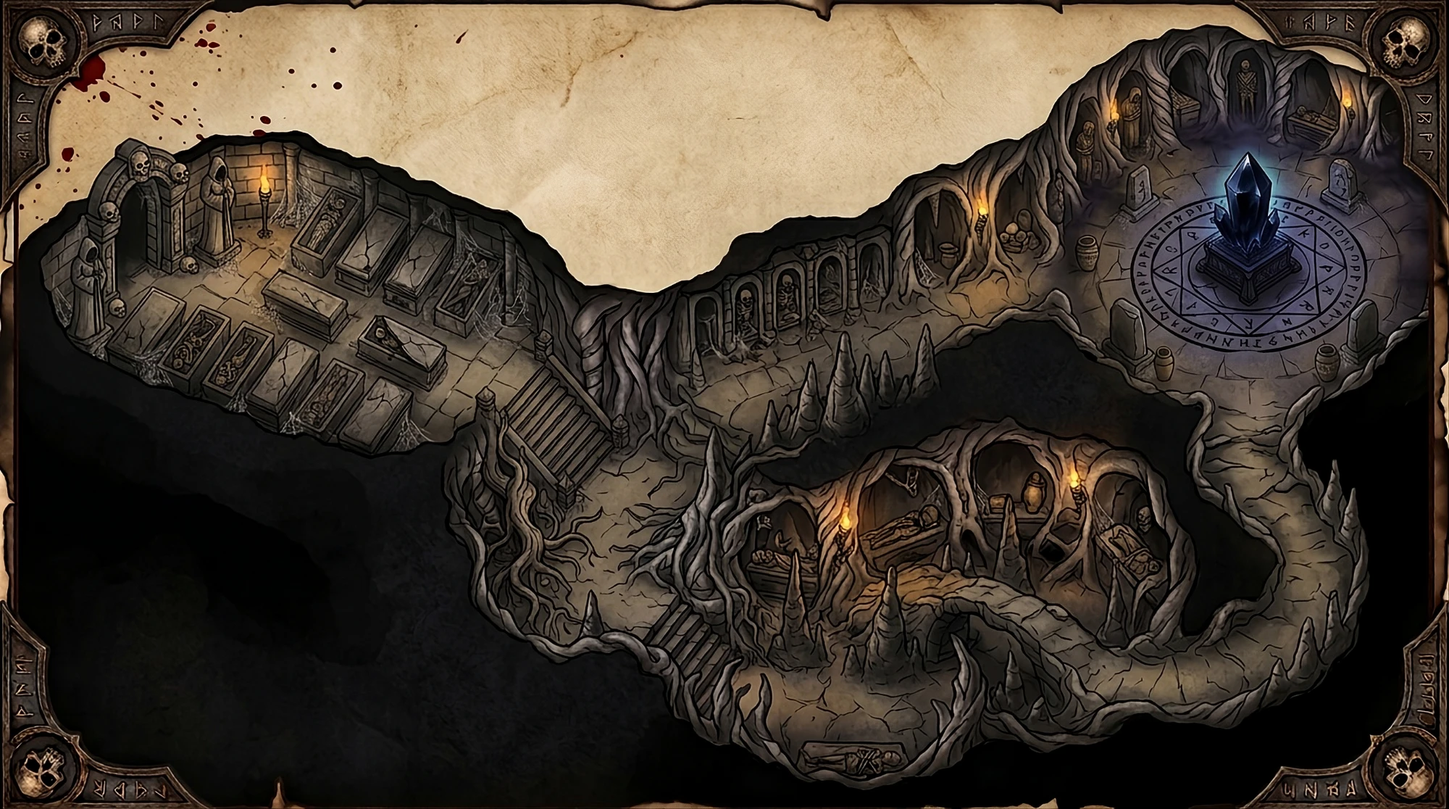
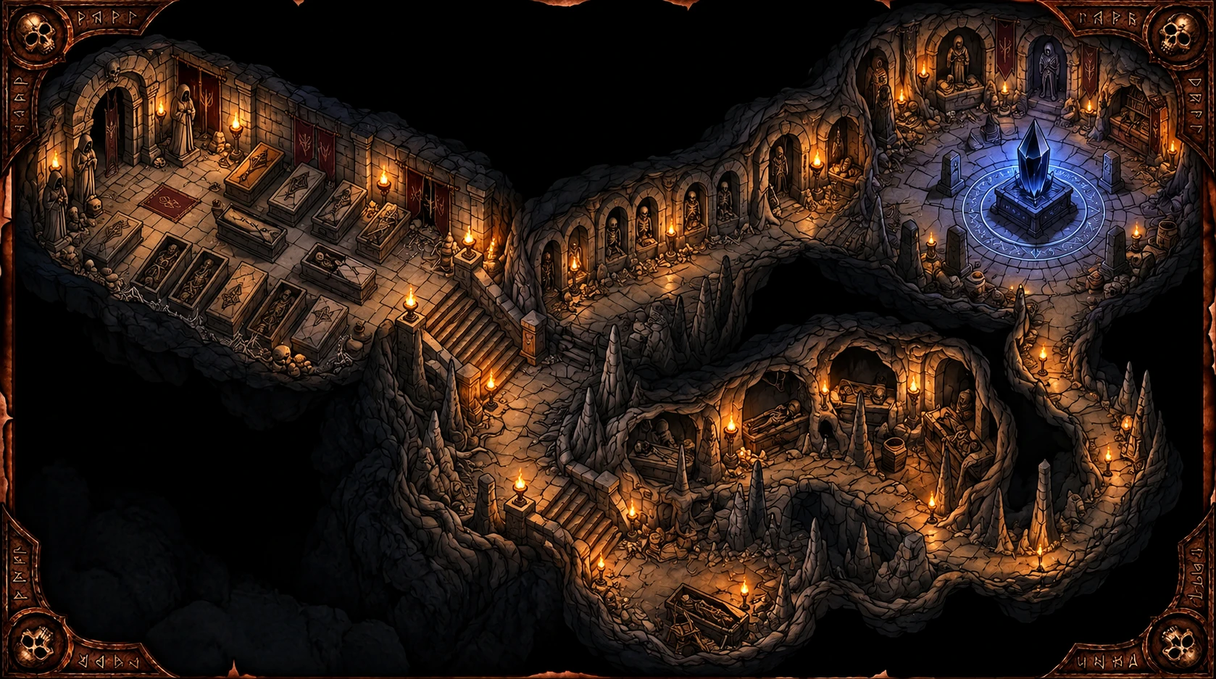
Updating board art and node layout, adding safe village nodes
- New higher quality art for the surface and catacombs maps (webp)
- Nodes repositioned along the paths of the new art
- Start inside the village with a loop around the fence; north route follows
  the west lake shore
- New safe node type (no event) for the village, so the first battle
  happens outside it

diff --git a/src/app/static/boards/whispering-forest.board.ts b/src/app/static/boards/whispering-forest.board.ts
@@ -7,102 +7,117 @@ import { BoardNode, StoryBoard } from '../board';
  * undead = cripta e corredor dos nichos; caves = caverna inferior.
  */
 const nodes: BoardNode[] = [
-        { id: 'S01', map: 'sup', x: 330, y: 880, type: 'start', monsterType: '', level: 0, next: ['S01~1'] },
-        { id: 'S02', map: 'sup', x: 400, y: 830, type: 'battle', monsterType: 'woods', level: 1, next: ['S03'] },
-        { id: 'S03', map: 'sup', x: 450, y: 790, type: 'fork', monsterType: '', level: 0, next: ['SS1','N01'], labels: {"SS1":"Margem sul — curta","N01":"Contornar o lago pelo norte — longa, com baú"} },
-        { id: 'SS1', map: 'sup', x: 540, y: 775, type: 'battle', monsterType: 'woods', level: 2, next: ['SS1~1'] },
-        { id: 'SS2', map: 'sup', x: 650, y: 740, type: 'battle', monsterType: 'woods', level: 2, next: ['SS2~1'] },
-        { id: 'SS3', map: 'sup', x: 760, y: 700, type: 'battle', monsterType: 'woods', level: 2, next: ['SS3~1'] },
-        { id: 'SS4', map: 'sup', x: 850, y: 650, type: 'battle', monsterType: 'woods', level: 3, next: ['SS4~1'] },
-        { id: 'N01', map: 'sup', x: 400, y: 720, type: 'battle', monsterType: 'woods', level: 2, next: ['N01~1'] },
-        { id: 'N02', map: 'sup', x: 350, y: 640, type: 'battle', monsterType: 'woods', level: 2, next: ['N03'] },
-        { id: 'N03', map: 'sup', x: 330, y: 560, type: 'battle', monsterType: 'woods', level: 2, next: ['N03~1'] },
-        { id: 'N04', map: 'sup', x: 390, y: 490, type: 'battle', monsterType: 'woods', level: 2, next: ['N04~1'] },
-        { id: 'N05', map: 'sup', x: 470, y: 430, type: 'rest', monsterType: '', level: 0, next: ['N05~1'] },
-        { id: 'N06', map: 'sup', x: 570, y: 400, type: 'battle', monsterType: 'woods', level: 3, next: ['N06~1'] },
-        { id: 'N07', map: 'sup', x: 680, y: 390, type: 'battle', monsterType: 'woods', level: 3, next: ['N07~1'] },
-        { id: 'N08', map: 'sup', x: 780, y: 410, type: 'battle', monsterType: 'woods', level: 4, next: ['N08~1'] },
-        { id: 'N09', map: 'sup', x: 860, y: 465, type: 'battle', monsterType: 'woods', level: 4, next: ['N10'] },
-        { id: 'N10', map: 'sup', x: 900, y: 530, type: 'reward', monsterType: '', level: 0, next: ['M01'] },
-        { id: 'M01', map: 'sup', x: 935, y: 605, type: 'rest', monsterType: '', level: 0, next: ['M01~1'] },
-        { id: 'E01', map: 'sup', x: 965, y: 700, type: 'battle', monsterType: 'ruins', level: 3, next: ['E01~1'] },
-        { id: 'E02', map: 'sup', x: 1030, y: 765, type: 'battle', monsterType: 'ruins', level: 4, next: ['E02~1'] },
-        { id: 'E03', map: 'sup', x: 1125, y: 815, type: 'battle', monsterType: 'ruins', level: 4, next: ['E03~1'] },
-        { id: 'E04', map: 'sup', x: 1235, y: 850, type: 'battle', monsterType: 'ruins', level: 5, next: ['E04~1'] },
-        { id: 'E05', map: 'sup', x: 1325, y: 865, type: 'battle', monsterType: 'ruins', level: 5, next: ['E06'] },
-        { id: 'E06', map: 'sup', x: 1373, y: 863, type: 'fork', monsterType: '', level: 0, next: ['B01','T01'], labels: {"B01":"Subir pela brecha sul — direto","T01":"Descer a trilha sul até o baú — ida e volta"} },
-        { id: 'B01', map: 'sup', x: 1365, y: 805, type: 'battle', monsterType: 'ruins', level: 5, next: ['B02'] },
-        { id: 'B02', map: 'sup', x: 1348, y: 745, type: 'battle', monsterType: 'ruins', level: 5, next: ['B03'] },
-        { id: 'B03', map: 'sup', x: 1340, y: 690, type: 'battle', monsterType: 'ruins', level: 6, next: ['B04'] },
-        { id: 'B04', map: 'sup', x: 1332, y: 640, type: 'battle', monsterType: 'ruins', level: 6, next: ['G01'] },
-        { id: 'T01', map: 'sup', x: 1379, y: 922, type: 'battle', monsterType: 'woods', level: 5, next: ['T02'] },
-        { id: 'T02', map: 'sup', x: 1382, y: 970, type: 'battle', monsterType: 'woods', level: 5, next: ['T03'] },
-        { id: 'T03', map: 'sup', x: 1379, y: 1020, type: 'battle', monsterType: 'woods', level: 5, next: ['T04'] },
-        { id: 'T04', map: 'sup', x: 1387, y: 1073, type: 'reward', monsterType: '', level: 0, next: ['T03r'] },
-        { id: 'T03r', map: 'sup', x: 1418, y: 1020, type: 'battle', monsterType: 'woods', level: 5, next: ['T02r'] },
-        { id: 'T02r', map: 'sup', x: 1421, y: 961, type: 'rest', monsterType: '', level: 0, next: ['T01r'] },
-        { id: 'T01r', map: 'sup', x: 1424, y: 916, type: 'battle', monsterType: 'woods', level: 6, next: ['T01r~1'] },
-        { id: 'G01', map: 'sup', x: 1310, y: 600, type: 'gate', monsterType: '', level: 0, next: ['K01'] },
-        { id: 'S01~1', map: 'sup', x: 365, y: 855, type: 'battle', monsterType: 'woods', level: 1, next: ['S02'] },
-        { id: 'SS1~1', map: 'sup', x: 595, y: 758, type: 'battle', monsterType: 'woods', level: 2, next: ['SS2'] },
-        { id: 'SS2~1', map: 'sup', x: 705, y: 720, type: 'battle', monsterType: 'woods', level: 2, next: ['SS3'] },
-        { id: 'SS3~1', map: 'sup', x: 805, y: 675, type: 'battle', monsterType: 'woods', level: 3, next: ['SS4'] },
-        { id: 'SS4~1', map: 'sup', x: 893, y: 628, type: 'battle', monsterType: 'woods', level: 3, next: ['M01'] },
-        { id: 'N01~1', map: 'sup', x: 375, y: 680, type: 'battle', monsterType: 'woods', level: 2, next: ['N02'] },
-        { id: 'N03~1', map: 'sup', x: 360, y: 525, type: 'battle', monsterType: 'woods', level: 2, next: ['N04'] },
-        { id: 'N04~1', map: 'sup', x: 430, y: 460, type: 'battle', monsterType: 'woods', level: 3, next: ['N05'] },
-        { id: 'N05~1', map: 'sup', x: 520, y: 415, type: 'battle', monsterType: 'woods', level: 3, next: ['N06'] },
-        { id: 'N06~1', map: 'sup', x: 625, y: 395, type: 'battle', monsterType: 'woods', level: 3, next: ['N07'] },
-        { id: 'N07~1', map: 'sup', x: 730, y: 400, type: 'battle', monsterType: 'woods', level: 3, next: ['N08'] },
-        { id: 'N08~1', map: 'sup', x: 820, y: 438, type: 'battle', monsterType: 'woods', level: 4, next: ['N09'] },
-        { id: 'M01~1', map: 'sup', x: 950, y: 653, type: 'battle', monsterType: 'ruins', level: 3, next: ['E01'] },
-        { id: 'E01~1', map: 'sup', x: 998, y: 733, type: 'battle', monsterType: 'ruins', level: 4, next: ['E02'] },
-        { id: 'E02~1', map: 'sup', x: 1078, y: 790, type: 'battle', monsterType: 'ruins', level: 4, next: ['E03'] },
-        { id: 'E03~1', map: 'sup', x: 1180, y: 833, type: 'battle', monsterType: 'ruins', level: 4, next: ['E04'] },
-        { id: 'E04~1', map: 'sup', x: 1280, y: 858, type: 'battle', monsterType: 'ruins', level: 5, next: ['E05'] },
-        { id: 'T01r~1', map: 'sup', x: 1395, y: 861, type: 'battle', monsterType: 'woods', level: 6, next: ['B01'] },
-        { id: 'K01', map: 'tomb', x: 210, y: 400, type: 'start', monsterType: '', level: 0, next: ['K02'] },
-        { id: 'K02', map: 'tomb', x: 330, y: 400, type: 'battle', monsterType: 'undead', level: 6, next: ['K02~1'] },
-        { id: 'K03', map: 'tomb', x: 450, y: 460, type: 'battle', monsterType: 'undead', level: 7, next: ['K04'] },
-        { id: 'K04', map: 'tomb', x: 560, y: 520, type: 'battle', monsterType: 'undead', level: 7, next: ['K04~1'] },
-        { id: 'K05', map: 'tomb', x: 690, y: 570, type: 'battle', monsterType: 'undead', level: 7, next: ['K05~1'] },
-        { id: 'KF', map: 'tomb', x: 840, y: 650, type: 'fork', monsterType: '', level: 0, next: ['U01','L01'], labels: {"U01":"Corredor dos nichos — curto","L01":"Caverna inferior — longa, com baú"} },
-        { id: 'U01', map: 'tomb', x: 940, y: 540, type: 'battle', monsterType: 'undead', level: 8, next: ['U01~1'] },
-        { id: 'U02', map: 'tomb', x: 1070, y: 480, type: 'battle', monsterType: 'undead', level: 8, next: ['U02~1'] },
-        { id: 'U03', map: 'tomb', x: 1200, y: 430, type: 'battle', monsterType: 'undead', level: 8, next: ['U03~1'] },
-        { id: 'U04', map: 'tomb', x: 1330, y: 340, type: 'battle', monsterType: 'undead', level: 9, next: ['U04~1'] },
-        { id: 'U05', map: 'tomb', x: 1450, y: 270, type: 'battle', monsterType: 'undead', level: 9, next: ['U05~1'] },
-        { id: 'L01', map: 'tomb', x: 890, y: 760, type: 'battle', monsterType: 'caves', level: 7, next: ['L01~1'] },
-        { id: 'L02', map: 'tomb', x: 960, y: 880, type: 'battle', monsterType: 'caves', level: 7, next: ['L02~1'] },
-        { id: 'L03', map: 'tomb', x: 1080, y: 970, type: 'battle', monsterType: 'caves', level: 7, next: ['L03~1'] },
-        { id: 'L04', map: 'tomb', x: 1250, y: 1000, type: 'battle', monsterType: 'caves', level: 8, next: ['L04~1'] },
-        { id: 'L05', map: 'tomb', x: 1450, y: 985, type: 'rest', monsterType: '', level: 0, next: ['L05~1'] },
-        { id: 'L06', map: 'tomb', x: 1620, y: 940, type: 'battle', monsterType: 'caves', level: 8, next: ['L06~1'] },
-        { id: 'L07', map: 'tomb', x: 1780, y: 860, type: 'reward', monsterType: '', level: 0, next: ['L07~1'] },
-        { id: 'L08', map: 'tomb', x: 1890, y: 740, type: 'battle', monsterType: 'caves', level: 9, next: ['L08~1'] },
-        { id: 'L09', map: 'tomb', x: 1790, y: 640, type: 'battle', monsterType: 'caves', level: 9, next: ['L09~1'] },
-        { id: 'L10', map: 'tomb', x: 1690, y: 545, type: 'battle', monsterType: 'caves', level: 10, next: ['M02'] },
-        { id: 'M02', map: 'tomb', x: 1620, y: 440, type: 'rest', monsterType: '', level: 0, next: ['M02~1'] },
-        { id: 'BOSS', map: 'tomb', x: 1735, y: 320, type: 'boss', monsterType: 'undead', level: 10, next: [] },
-        { id: 'K02~1', map: 'tomb', x: 390, y: 430, type: 'battle', monsterType: 'undead', level: 6, next: ['K03'] },
-        { id: 'K04~1', map: 'tomb', x: 625, y: 545, type: 'battle', monsterType: 'undead', level: 7, next: ['K05'] },
-        { id: 'K05~1', map: 'tomb', x: 765, y: 610, type: 'battle', monsterType: 'undead', level: 7, next: ['KF'] },
-        { id: 'U01~1', map: 'tomb', x: 1005, y: 510, type: 'battle', monsterType: 'undead', level: 8, next: ['U02'] },
-        { id: 'U02~1', map: 'tomb', x: 1135, y: 455, type: 'battle', monsterType: 'undead', level: 8, next: ['U03'] },
-        { id: 'U03~1', map: 'tomb', x: 1265, y: 385, type: 'battle', monsterType: 'undead', level: 9, next: ['U04'] },
-        { id: 'U04~1', map: 'tomb', x: 1390, y: 305, type: 'battle', monsterType: 'undead', level: 9, next: ['U05'] },
-        { id: 'U05~1', map: 'tomb', x: 1507, y: 327, type: 'battle', monsterType: 'undead', level: 9, next: ['U05~2'] },
-        { id: 'U05~2', map: 'tomb', x: 1563, y: 383, type: 'battle', monsterType: 'undead', level: 9, next: ['M02'] },
-        { id: 'L01~1', map: 'tomb', x: 925, y: 820, type: 'battle', monsterType: 'caves', level: 7, next: ['L02'] },
-        { id: 'L02~1', map: 'tomb', x: 1020, y: 925, type: 'battle', monsterType: 'caves', level: 7, next: ['L03'] },
-        { id: 'L03~1', map: 'tomb', x: 1165, y: 985, type: 'battle', monsterType: 'caves', level: 8, next: ['L04'] },
-        { id: 'L04~1', map: 'tomb', x: 1350, y: 993, type: 'battle', monsterType: 'caves', level: 8, next: ['L05'] },
-        { id: 'L05~1', map: 'tomb', x: 1535, y: 963, type: 'battle', monsterType: 'caves', level: 8, next: ['L06'] },
-        { id: 'L06~1', map: 'tomb', x: 1700, y: 900, type: 'battle', monsterType: 'caves', level: 8, next: ['L07'] },
-        { id: 'L07~1', map: 'tomb', x: 1835, y: 800, type: 'battle', monsterType: 'caves', level: 9, next: ['L08'] },
-        { id: 'L08~1', map: 'tomb', x: 1840, y: 690, type: 'battle', monsterType: 'caves', level: 9, next: ['L09'] },
-        { id: 'L09~1', map: 'tomb', x: 1740, y: 593, type: 'battle', monsterType: 'caves', level: 9, next: ['L10'] },
-        { id: 'M02~1', map: 'tomb', x: 1678, y: 380, type: 'battle', monsterType: 'undead', level: 10, next: ['BOSS'] },
+        { id: 'S01', map: 'sup', x: 281, y: 809, type: 'start', monsterType: '', level: 0, next: ['S01~1'] },
+        { id: 'A01', map: 'sup', x: 222, y: 764, type: 'safe', monsterType: '', level: 0, next: ['A02'] },
+        { id: 'A02', map: 'sup', x: 176, y: 762, type: 'safe', monsterType: '', level: 0, next: ['A03'] },
+        { id: 'A03', map: 'sup', x: 133, y: 776, type: 'safe', monsterType: '', level: 0, next: ['A04'] },
+        { id: 'A04', map: 'sup', x: 105, y: 807, type: 'safe', monsterType: '', level: 0, next: ['A05'] },
+        { id: 'A05', map: 'sup', x: 100, y: 847, type: 'safe', monsterType: '', level: 0, next: ['A06'] },
+        { id: 'A06', map: 'sup', x: 119, y: 883, type: 'safe', monsterType: '', level: 0, next: ['A07'] },
+        { id: 'A07', map: 'sup', x: 172, y: 907, type: 'safe', monsterType: '', level: 0, next: ['A08'] },
+        { id: 'A08', map: 'sup', x: 231, y: 922, type: 'battle', monsterType: 'woods', level: 2, next: ['A09'] },
+        { id: 'A09', map: 'sup', x: 291, y: 933, type: 'battle', monsterType: 'woods', level: 2, next: ['A10'] },
+        { id: 'A10', map: 'sup', x: 350, y: 933, type: 'battle', monsterType: 'woods', level: 3, next: ['A11'] },
+        { id: 'A11', map: 'sup', x: 410, y: 929, type: 'battle', monsterType: 'woods', level: 3, next: ['A12'] },
+        { id: 'A12', map: 'sup', x: 467, y: 912, type: 'battle', monsterType: 'woods', level: 3, next: ['A13'] },
+        { id: 'A13', map: 'sup', x: 510, y: 881, type: 'battle', monsterType: 'woods', level: 3, next: ['S03'] },
+        { id: 'S03', map: 'sup', x: 532, y: 828, type: 'fork', monsterType: '', level: 0, next: ['SS1','N01'], labels: {"SS1":"Margem sul — curta","N01":"Contornar o lago pelo norte — longa, com baú"} },
+        { id: 'SS1', map: 'sup', x: 596, y: 790, type: 'battle', monsterType: 'woods', level: 3, next: ['SS1~1'] },
+        { id: 'SS2', map: 'sup', x: 667, y: 757, type: 'battle', monsterType: 'woods', level: 4, next: ['SS2~1'] },
+        { id: 'SS3', map: 'sup', x: 739, y: 729, type: 'battle', monsterType: 'woods', level: 4, next: ['SS3~1'] },
+        { id: 'SS4', map: 'sup', x: 810, y: 700, type: 'battle', monsterType: 'woods', level: 4, next: ['SS4~1'] },
+        { id: 'SS5', map: 'sup', x: 876, y: 666, type: 'battle', monsterType: 'woods', level: 4, next: ['SS5~1'] },
+        { id: 'N01', map: 'sup', x: 499, y: 772, type: 'battle', monsterType: 'woods', level: 3, next: ['N02'] },
+        { id: 'N02', map: 'sup', x: 470, y: 739, type: 'battle', monsterType: 'woods', level: 3, next: ['N03'] },
+        { id: 'N03', map: 'sup', x: 422, y: 691, type: 'battle', monsterType: 'woods', level: 3, next: ['N04'] },
+        { id: 'N04', map: 'sup', x: 365, y: 653, type: 'battle', monsterType: 'woods', level: 3, next: ['N05'] },
+        { id: 'N05', map: 'sup', x: 340, y: 613, type: 'rest', monsterType: '', level: 0, next: ['N06'] },
+        { id: 'N06', map: 'sup', x: 355, y: 565, type: 'battle', monsterType: 'woods', level: 4, next: ['N07'] },
+        { id: 'N07', map: 'sup', x: 410, y: 525, type: 'battle', monsterType: 'woods', level: 4, next: ['N08'] },
+        { id: 'N08', map: 'sup', x: 464, y: 483, type: 'battle', monsterType: 'woods', level: 4, next: ['N09'] },
+        { id: 'N09', map: 'sup', x: 517, y: 456, type: 'battle', monsterType: 'woods', level: 4, next: ['N10'] },
+        { id: 'N10', map: 'sup', x: 565, y: 439, type: 'battle', monsterType: 'woods', level: 4, next: ['N11'] },
+        { id: 'N11', map: 'sup', x: 625, y: 439, type: 'battle', monsterType: 'woods', level: 4, next: ['N12'] },
+        { id: 'N12', map: 'sup', x: 685, y: 441, type: 'battle', monsterType: 'woods', level: 4, next: ['N13'] },
+        { id: 'N13', map: 'sup', x: 753, y: 443, type: 'battle', monsterType: 'woods', level: 5, next: ['N14'] },
+        { id: 'N14', map: 'sup', x: 813, y: 464, type: 'battle', monsterType: 'woods', level: 5, next: ['N15'] },
+        { id: 'N15', map: 'sup', x: 865, y: 496, type: 'battle', monsterType: 'woods', level: 5, next: ['N16'] },
+        { id: 'N16', map: 'sup', x: 906, y: 543, type: 'battle', monsterType: 'woods', level: 5, next: ['N17'] },
+        { id: 'N17', map: 'sup', x: 920, y: 591, type: 'battle', monsterType: 'woods', level: 5, next: ['N18'] },
+        { id: 'N18', map: 'sup', x: 903, y: 634, type: 'reward', monsterType: '', level: 0, next: ['M01'] },
+        { id: 'M01', map: 'sup', x: 965, y: 657, type: 'rest', monsterType: '', level: 0, next: ['M01~1'] },
+        { id: 'E01', map: 'sup', x: 1035, y: 704, type: 'battle', monsterType: 'ruins', level: 5, next: ['E01~1'] },
+        { id: 'E02', map: 'sup', x: 1103, y: 747, type: 'battle', monsterType: 'ruins', level: 5, next: ['E02~1'] },
+        { id: 'E03', map: 'sup', x: 1174, y: 785, type: 'battle', monsterType: 'ruins', level: 6, next: ['E03~1'] },
+        { id: 'E04', map: 'sup', x: 1246, y: 809, type: 'battle', monsterType: 'ruins', level: 6, next: ['E05'] },
+        { id: 'E05', map: 'sup', x: 1311, y: 823, type: 'battle', monsterType: 'ruins', level: 6, next: ['E06'] },
+        { id: 'E06', map: 'sup', x: 1371, y: 831, type: 'fork', monsterType: '', level: 0, next: ['B01','T01'], labels: {"B01":"Subir pela escada do muro — direto","T01":"Descer a trilha sul até o baú — ida e volta"} },
+        { id: 'B01', map: 'sup', x: 1389, y: 779, type: 'battle', monsterType: 'ruins', level: 6, next: ['B02'] },
+        { id: 'B02', map: 'sup', x: 1385, y: 735, type: 'battle', monsterType: 'ruins', level: 7, next: ['B03'] },
+        { id: 'B03', map: 'sup', x: 1383, y: 693, type: 'battle', monsterType: 'ruins', level: 7, next: ['B04'] },
+        { id: 'B04', map: 'sup', x: 1389, y: 649, type: 'battle', monsterType: 'ruins', level: 7, next: ['G01'] },
+        { id: 'T01', map: 'sup', x: 1400, y: 878, type: 'battle', monsterType: 'woods', level: 6, next: ['T02'] },
+        { id: 'T02', map: 'sup', x: 1414, y: 938, type: 'battle', monsterType: 'woods', level: 6, next: ['T03'] },
+        { id: 'T03', map: 'sup', x: 1408, y: 1000, type: 'battle', monsterType: 'woods', level: 6, next: ['T03~1'] },
+        { id: 'T04', map: 'sup', x: 1373, y: 1073, type: 'reward', monsterType: '', level: 0, next: ['T04~1'] },
+        { id: 'T03r', map: 'sup', x: 1442, y: 1002, type: 'battle', monsterType: 'woods', level: 6, next: ['T02r'] },
+        { id: 'T02r', map: 'sup', x: 1449, y: 940, type: 'rest', monsterType: '', level: 0, next: ['T01r'] },
+        { id: 'T01r', map: 'sup', x: 1436, y: 881, type: 'battle', monsterType: 'woods', level: 7, next: ['T01r~1'] },
+        { id: 'G01', map: 'sup', x: 1389, y: 595, type: 'gate', monsterType: '', level: 0, next: ['K01'] },
+        { id: 'S01~1', map: 'sup', x: 252, y: 787, type: 'safe', monsterType: '', level: 0, next: ['A01'] },
+        { id: 'SS1~1', map: 'sup', x: 632, y: 774, type: 'battle', monsterType: 'woods', level: 3, next: ['SS2'] },
+        { id: 'SS2~1', map: 'sup', x: 703, y: 743, type: 'battle', monsterType: 'woods', level: 4, next: ['SS3'] },
+        { id: 'SS3~1', map: 'sup', x: 775, y: 715, type: 'battle', monsterType: 'woods', level: 4, next: ['SS4'] },
+        { id: 'SS4~1', map: 'sup', x: 843, y: 683, type: 'battle', monsterType: 'woods', level: 4, next: ['SS5'] },
+        { id: 'SS5~1', map: 'sup', x: 921, y: 662, type: 'battle', monsterType: 'woods', level: 5, next: ['M01'] },
+        { id: 'M01~1', map: 'sup', x: 1000, y: 681, type: 'battle', monsterType: 'ruins', level: 5, next: ['E01'] },
+        { id: 'E01~1', map: 'sup', x: 1069, y: 726, type: 'battle', monsterType: 'ruins', level: 5, next: ['E02'] },
+        { id: 'E02~1', map: 'sup', x: 1139, y: 766, type: 'battle', monsterType: 'ruins', level: 6, next: ['E03'] },
+        { id: 'E03~1', map: 'sup', x: 1210, y: 797, type: 'battle', monsterType: 'ruins', level: 6, next: ['E04'] },
+        { id: 'T03~1', map: 'sup', x: 1391, y: 1037, type: 'battle', monsterType: 'woods', level: 6, next: ['T04'] },
+        { id: 'T04~1', map: 'sup', x: 1408, y: 1038, type: 'battle', monsterType: 'woods', level: 6, next: ['T03r'] },
+        { id: 'T01r~1', map: 'sup', x: 1413, y: 830, type: 'battle', monsterType: 'woods', level: 7, next: ['B01'] },
+        { id: 'K01', map: 'tomb', x: 226, y: 303, type: 'start', monsterType: '', level: 0, next: ['K02'] },
+        { id: 'K02', map: 'tomb', x: 304, y: 347, type: 'battle', monsterType: 'undead', level: 7, next: ['K03'] },
+        { id: 'K03', map: 'tomb', x: 381, y: 411, type: 'battle', monsterType: 'undead', level: 7, next: ['K04'] },
+        { id: 'K04', map: 'tomb', x: 459, y: 458, type: 'battle', monsterType: 'undead', level: 8, next: ['K05'] },
+        { id: 'K05', map: 'tomb', x: 536, y: 497, type: 'battle', monsterType: 'undead', level: 8, next: ['K06'] },
+        { id: 'K06', map: 'tomb', x: 614, y: 524, type: 'battle', monsterType: 'undead', level: 8, next: ['K07'] },
+        { id: 'K07', map: 'tomb', x: 715, y: 524, type: 'battle', monsterType: 'undead', level: 8, next: ['K08'] },
+        { id: 'K08', map: 'tomb', x: 781, y: 569, type: 'battle', monsterType: 'undead', level: 8, next: ['K09'] },
+        { id: 'K09', map: 'tomb', x: 840, y: 613, type: 'battle', monsterType: 'undead', level: 8, next: ['KF'] },
+        { id: 'KF', map: 'tomb', x: 906, y: 652, type: 'fork', monsterType: '', level: 0, next: ['U01','L01'], labels: {"U01":"Corredor dos nichos — curto","L01":"Caverna inferior — longa, com baú"} },
+        { id: 'U01', map: 'tomb', x: 948, y: 571, type: 'battle', monsterType: 'undead', level: 9, next: ['U02'] },
+        { id: 'U02', map: 'tomb', x: 995, y: 512, type: 'battle', monsterType: 'undead', level: 9, next: ['U03'] },
+        { id: 'U03', map: 'tomb', x: 1079, y: 491, type: 'battle', monsterType: 'undead', level: 9, next: ['U04'] },
+        { id: 'U04', map: 'tomb', x: 1162, y: 470, type: 'battle', monsterType: 'undead', level: 9, next: ['U05'] },
+        { id: 'U05', map: 'tomb', x: 1246, y: 443, type: 'battle', monsterType: 'undead', level: 9, next: ['U06'] },
+        { id: 'U06', map: 'tomb', x: 1323, y: 414, type: 'battle', monsterType: 'undead', level: 9, next: ['U07'] },
+        { id: 'U07', map: 'tomb', x: 1395, y: 381, type: 'battle', monsterType: 'undead', level: 9, next: ['U08'] },
+        { id: 'U08', map: 'tomb', x: 1448, y: 347, type: 'battle', monsterType: 'undead', level: 10, next: ['U09'] },
+        { id: 'U09', map: 'tomb', x: 1526, y: 363, type: 'battle', monsterType: 'undead', level: 10, next: ['M02'] },
+        { id: 'L01', map: 'tomb', x: 936, y: 726, type: 'battle', monsterType: 'caves', level: 8, next: ['L02'] },
+        { id: 'L02', map: 'tomb', x: 987, y: 800, type: 'battle', monsterType: 'caves', level: 8, next: ['L03'] },
+        { id: 'L03', map: 'tomb', x: 1043, y: 866, type: 'battle', monsterType: 'caves', level: 8, next: ['L04'] },
+        { id: 'L04', map: 'tomb', x: 1126, y: 934, type: 'battle', monsterType: 'caves', level: 8, next: ['L05'] },
+        { id: 'L05', map: 'tomb', x: 1198, y: 1000, type: 'reward', monsterType: '', level: 0, next: ['L06'] },
+        { id: 'L06', map: 'tomb', x: 1287, y: 976, type: 'battle', monsterType: 'caves', level: 8, next: ['L07'] },
+        { id: 'L07', map: 'tomb', x: 1395, y: 958, type: 'battle', monsterType: 'caves', level: 8, next: ['L08'] },
+        { id: 'L08', map: 'tomb', x: 1514, y: 934, type: 'rest', monsterType: '', level: 0, next: ['L09'] },
+        { id: 'L09', map: 'tomb', x: 1633, y: 922, type: 'battle', monsterType: 'caves', level: 9, next: ['L10'] },
+        { id: 'L10', map: 'tomb', x: 1716, y: 923, type: 'battle', monsterType: 'caves', level: 9, next: ['L11'] },
+        { id: 'L11', map: 'tomb', x: 1788, y: 912, type: 'battle', monsterType: 'caves', level: 9, next: ['L12'] },
+        { id: 'L12', map: 'tomb', x: 1841, y: 878, type: 'battle', monsterType: 'caves', level: 9, next: ['L13'] },
+        { id: 'L13', map: 'tomb', x: 1889, y: 827, type: 'battle', monsterType: 'caves', level: 9, next: ['L14'] },
+        { id: 'L14', map: 'tomb', x: 1907, y: 771, type: 'battle', monsterType: 'caves', level: 9, next: ['L15'] },
+        { id: 'L15', map: 'tomb', x: 1895, y: 714, type: 'battle', monsterType: 'caves', level: 9, next: ['L16'] },
+        { id: 'L16', map: 'tomb', x: 1841, y: 666, type: 'battle', monsterType: 'caves', level: 9, next: ['L17'] },
+        { id: 'L17', map: 'tomb', x: 1776, y: 601, type: 'battle', monsterType: 'caves', level: 10, next: ['L18'] },
+        { id: 'L18', map: 'tomb', x: 1716, y: 545, type: 'battle', monsterType: 'caves', level: 10, next: ['L19'] },
+        { id: 'L19', map: 'tomb', x: 1669, y: 506, type: 'battle', monsterType: 'caves', level: 10, next: ['M02'] },
+        { id: 'M02', map: 'tomb', x: 1627, y: 438, type: 'rest', monsterType: '', level: 0, next: ['BOSS'] },
+        { id: 'BOSS', map: 'tomb', x: 1695, y: 395, type: 'boss', monsterType: 'undead', level: 10, next: [] },
+
 ];
 
 export const whisperingForestBoard: StoryBoard = {

diff --git a/tools/node-map-preview/index.html b/tools/node-map-preview/index.html
@@ -81,6 +81,7 @@
 <script>
 const TYPES = {
   start:  { color:'#f5f5f5', name:'Início',                 r:14 },
+  safe:   { color:'#cfc8b8', name:'Vila (sem evento)',      r:10 },
   battle: { color:'#c0392b', name:'Batalha',                r:10 },
   rest:   { color:'#3fae5a', name:'Descanso (parada)',      r:13 },
   reward: { color:'#e8b730', name:'Recompensa (parada)',    r:14 },
@@ -92,60 +93,71 @@ const FORCED_STOP = new Set(['rest','reward','fork','gate','boss']);
 const MAPS = { sup:{ img:'superficie.webp', title:'Superfície' }, tomb:{ img:'tomba.webp', title:'Catacumbas' } };
 
 const N = {};
-function add(map, list) { list.forEach(([id,x,y,type='battle']) => N[id] = { id, map, x, y, type, next:[], labels:{} }); }
+const ART_PX = { w:1678, h:937 };   // tamanho real das artes; o espaço de trabalho é 2000x1115
+function add(map, list) { list.forEach(([id,x,y,type='battle']) => N[id] = { id, map, x:Math.round(x*2000/ART_PX.w), y:Math.round(y*1115/ART_PX.h), type, next:[], labels:{} }); }
 function chain(...ids) { for (let i=0;i<ids.length-1;i++) N[ids[i]].next.push(ids[i+1]); }
 function fork(id, opts) { opts.forEach(([to,label]) => { N[id].next.push(to); N[id].labels[to] = label; }); }
 
-/* ---------- SUPERFÍCIE ---------- */
+/* ---------- SUPERFÍCIE ----------
+   Coordenadas medidas na arte (1678x937 px); add() converte para o espaço 2000x1115. */
 add('sup', [
-  ['S01',330,880,'start'], ['S02',400,830], ['S03',450,790,'fork'],
+  // início dentro da vila; a trilha contorna a cerca pelo oeste e pelo sul até o portão leste
+  ['S01',236,680,'start'], ['A01',186,642,'safe'], ['A02',148,640,'safe'], ['A03',112,652,'safe'], ['A04',88,678,'safe'],
+  ['A05',84,712,'safe'], ['A06',100,742,'safe'], ['A07',144,762,'safe'], ['A08',194,775], ['A09',244,784],
+  ['A10',294,784], ['A11',344,781], ['A12',392,766], ['A13',428,740],
+  ['S03',446,696,'fork'],
   // margem sul (curta)
-  ['SS1',540,775], ['SS2',650,740], ['SS3',760,700], ['SS4',850,650],
-  // norte (longa)
-  ['N01',400,720], ['N02',350,640], ['N03',330,560], ['N04',390,490], ['N05',470,430,'rest'],
-  ['N06',570,400], ['N07',680,390], ['N08',780,410], ['N09',860,465], ['N10',900,530,'reward'],
-  // encontro das trilhas, diante do muro que fecha a porta oeste
-  ['M01',935,605,'rest'],
-  // contorno obrigatório das muralhas por fora
-  ['E01',965,700], ['E02',1030,765], ['E03',1125,815], ['E04',1235,850], ['E05',1325,865],
-  ['E06',1373,863,'fork'],
-  // brecha sul do anel (curto)
-  ['B01',1365,805], ['B02',1348,745], ['B03',1340,690], ['B04',1332,640],
-  // trilha sul: desvio de ida e volta pelo mesmo caminho (volta deslocada 16 p/ não sobrepor)
-  ['T01',1379,922], ['T02',1382,970], ['T03',1379,1020], ['T04',1387,1073,'reward'],
-  ['T03r',1418,1020], ['T02r',1421,961,'rest'], ['T01r',1424,916],
-  ['G01',1310,600,'gate']
+  ['SS1',500,664], ['SS2',560,636], ['SS3',620,613], ['SS4',680,588], ['SS5',735,560],
+  // norte, pela margem oeste do lago (longa)
+  ['N01',419,649], ['N02',394,621], ['N03',354,581], ['N04',306,549], ['N05',285,515,'rest'],
+  ['N06',298,475], ['N07',344,441], ['N08',389,406], ['N09',434,383], ['N10',474,369],
+  ['N11',524,369], ['N12',575,371], ['N13',632,372], ['N14',682,390], ['N15',726,417],
+  ['N16',760,456], ['N17',772,497], ['N18',758,533,'reward'],  // encontro das trilhas, junto à muralha
+  ['M01',810,552,'rest'],
+  // contorno obrigatório da muralha sul
+  ['E01',868,592], ['E02',925,628], ['E03',985,660], ['E04',1045,680], ['E05',1100,692],
+  ['E06',1150,698,'fork'],
+  // escada na brecha do muro (curto)
+  ['B01',1165,655], ['B02',1162,618], ['B03',1160,582], ['B04',1165,545],
+  // trilha sul: ida e volta (volta deslocada para não sobrepor)
+  ['T01',1175,738], ['T02',1186,788], ['T03',1181,840], ['T04',1152,902,'reward'],
+  ['T03r',1210,842], ['T02r',1216,790,'rest'], ['T01r',1205,740],
+  ['G01',1165,500,'gate']
 ]);
-chain('S01','S02','S03');
+chain('S01','A01','A02','A03','A04','A05','A06','A07','A08','A09','A10','A11','A12','A13','S03');
 fork('S03', [['SS1','Margem sul — curta'], ['N01','Contornar o lago pelo norte — longa, com baú']]);
-chain('SS1','SS2','SS3','SS4','M01');
-chain('N01','N02','N03','N04','N05','N06','N07','N08','N09','N10','M01');
+chain('SS1','SS2','SS3','SS4','SS5','M01');
+chain('N01','N02','N03','N04','N05','N06','N07','N08','N09','N10','N11','N12','N13','N14','N15','N16','N17','N18','M01');
 chain('M01','E01','E02','E03','E04','E05','E06');
-fork('E06', [['B01','Subir pela brecha sul — direto'], ['T01','Descer a trilha sul até o baú — ida e volta']]);
+fork('E06', [['B01','Subir pela escada do muro — direto'], ['T01','Descer a trilha sul até o baú — ida e volta']]);
 chain('B01','B02','B03','B04','G01');
 chain('T01','T02','T03','T04','T03r','T02r','T01r','B01');
 
 /* ---------- CATACUMBAS ---------- */
 add('tomb', [
-  ['K01',210,400,'start'], ['K02',330,400], ['K03',450,460], ['K04',560,520], ['K05',690,570],
-  ['KF',840,650,'fork'],
+  ['K01',190,255,'start'], ['K02',255,292], ['K03',320,345], ['K04',385,385], ['K05',450,418],
+  ['K06',515,440], ['K07',600,440], ['K08',655,478], ['K09',705,515],
+  ['KF',760,548,'fork'],
   // corredor dos nichos (curto)
-  ['U01',940,540], ['U02',1070,480], ['U03',1200,430], ['U04',1330,340], ['U05',1450,270],
+  ['U01',795,480], ['U02',835,430], ['U03',905,413], ['U04',975,395], ['U05',1045,372],
+  ['U06',1110,348], ['U07',1170,320], ['U08',1215,292], ['U09',1280,305],
   // caverna inferior (longa)
-  ['L01',890,760], ['L02',960,880], ['L03',1080,970], ['L04',1250,1000], ['L05',1450,985,'rest'],
-  ['L06',1620,940], ['L07',1780,860,'reward'], ['L08',1890,740], ['L09',1790,640], ['L10',1690,545],
-  ['M02',1620,440,'rest'], ['BOSS',1735,320,'boss']
+  ['L01',785,610], ['L02',828,672], ['L03',875,728], ['L04',945,785], ['L05',1005,840,'reward'],
+  ['L06',1080,820], ['L07',1170,805], ['L08',1270,785,'rest'], ['L09',1370,775], ['L10',1440,776],
+  ['L11',1500,766], ['L12',1545,738], ['L13',1585,695], ['L14',1600,648], ['L15',1590,600],
+  ['L16',1545,560], ['L17',1490,505], ['L18',1440,458], ['L19',1400,425],
+  // plataforma do cristal
+  ['M02',1365,368,'rest'], ['BOSS',1422,332,'boss']
 ]);
-chain('K01','K02','K03','K04','K05','KF');
+chain('K01','K02','K03','K04','K05','K06','K07','K08','K09','KF');
 fork('KF', [['U01','Corredor dos nichos — curto'], ['L01','Caverna inferior — longa, com baú']]);
-chain('U01','U02','U03','U04','U05','M02');
-chain('L01','L02','L03','L04','L05','L06','L07','L08','L09','L10','M02');
-chain('M02','BOSS');
-N['G01'].next.push('K01');   // portão da superfície -> entrada da cripta
+chain('U01','U02','U03','U04','U05','U06','U07','U08','U09','M02');
+chain('L01','L02','L03','L04','L05','L06','L07','L08','L09','L10','L11','L12','L13','L14','L15','L16','L17','L18','L19','M02');
+chain('M02','BOSS');N['G01'].next.push('K01');   // portão da superfície -> entrada da cripta
 
 
 /* ---------- SUBDIVISÃO: insere nodes intermediários nos trechos longos ---------- */
-const SPACING = { sup:57, tomb:88 };   // distância-alvo entre nodes por mapa (unidades 2000x1115)
+const SPACING = { sup:48, tomb:88 };   // distância-alvo entre nodes por mapa (unidades 2000x1115)
 (function subdivide() {
   Object.values({ ...N }).forEach(a => {
     if (a.next.length !== 1) return;                 // não mexe nas bifurcações
@@ -157,7 +169,7 @@ const SPACING = { sup:57, tomb:88 };   // distância-alvo entre nodes por mapa (
     let prev = a;
     for (let i = 1; i < parts; i++) {
       const id = `${a.id}~${i}`;
-      N[id] = { id, map:a.map, x:Math.round(a.x + (b.x-a.x)*i/parts), y:Math.round(a.y + (b.y-a.y)*i/parts), type:'battle', next:[], labels:{} };
+      N[id] = { id, map:a.map, x:Math.round(a.x + (b.x-a.x)*i/parts), y:Math.round(a.y + (b.y-a.y)*i/parts), type:(['safe','start'].includes(a.type) && ['safe','start'].includes(b.type)) ? 'safe' : 'battle', next:[], labels:{} };
       prev.next = [id]; prev = N[id];
     }
     prev.next = [b.id];

diff --git a/src/app/static/board.ts b/src/app/static/board.ts
@@ -1,7 +1,7 @@
 /** Tipo do deck de monstros sorteado em um node de batalha (mesmos decks de `Cards`). */
 export type MonsterType = 'woods' | 'caves' | 'ruins' | 'undead' | 'mountains' | '';
 
-export type BoardNodeType = 'start' | 'battle' | 'rest' | 'reward' | 'fork' | 'gate' | 'boss';
+export type BoardNodeType = 'start' | 'safe' | 'battle' | 'rest' | 'reward' | 'fork' | 'gate' | 'boss';
 
 export interface BoardNode {
     id: string;

diff --git a/src/app/game-components/game.ts b/src/app/game-components/game.ts
@@ -29,6 +29,7 @@ const REVIVE_FLASH_MS = 850;
 const BOARD_FORCED_STOPS: BoardNodeType[] = ['rest', 'reward', 'fork', 'gate', 'boss'];
 const BOARD_NODE_TITLES: Record<BoardNodeType, string> = {
     start: 'Início da Jornada',
+    safe: 'Vila',
     battle: 'Encontro',
     rest: 'Ponto de Descanso',
     reward: 'Tesouro',

diff --git a/src/app/game-components/board/board.ts b/src/app/game-components/board/board.ts
@@ -9,6 +9,7 @@ interface NodeLook {
 
 const NODE_LOOK: Record<BoardNodeType, NodeLook> = {
     start:  { color: '#f5f5f5', radius: 14 },
+    safe:   { color: '#cfc8b8', radius: 10 },
     battle: { color: '#c0392b', radius: 10 },
     rest:   { color: '#3fae5a', radius: 13 },
     reward: { color: '#e8b730', radius: 14 },
